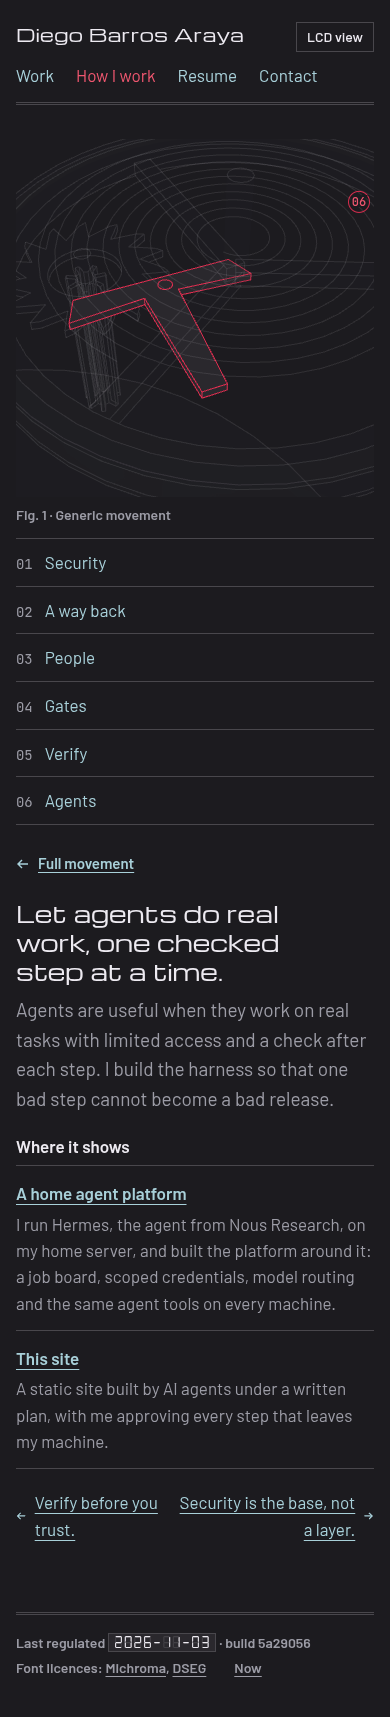
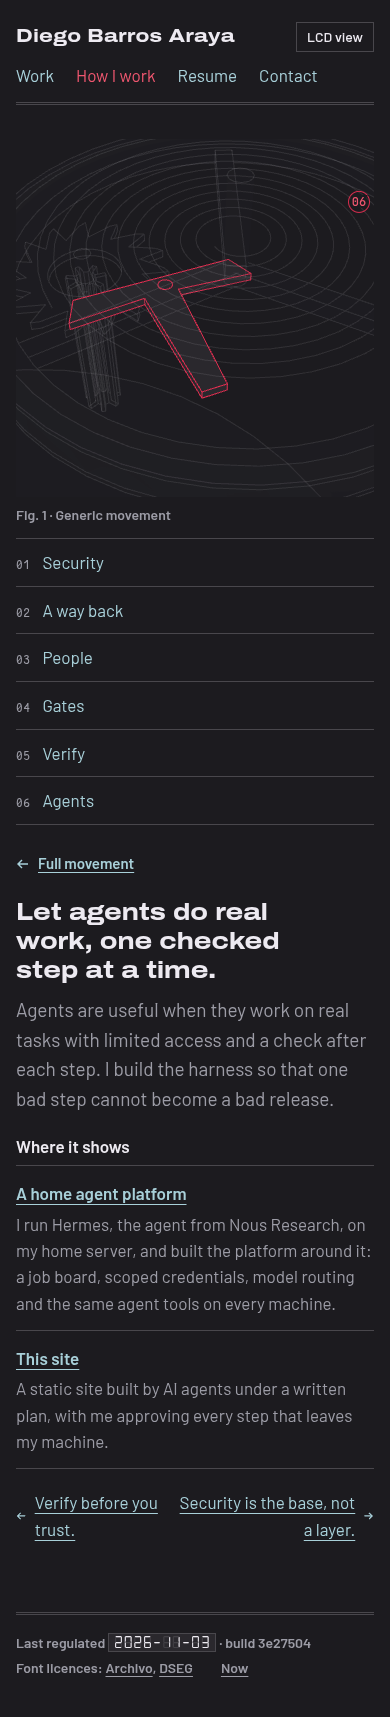
feat: Archivo Expanded for headings

diff --git a/src/styles/global.css b/src/styles/global.css
@@ -1,7 +1,7 @@
 @import '@fontsource/barlow/400.css';
 @import '@fontsource/barlow/500.css';
 @import '@fontsource/barlow/600.css';
-@import '@fontsource/michroma/400.css';
+@import '@fontsource-variable/archivo/wdth.css';
 @import '@fontsource/jetbrains-mono/400.css';
 @import '@fontsource/jetbrains-mono/500.css';
 @import './tokens.css';
@@ -50,7 +50,7 @@ section.block { padding: 30px 0 34px; border-bottom: 1px solid var(--rule); }
 /* The footer's double rule closes the page; no single rule stacked above it. */
 main > :last-child { border-bottom: 0; }
 section.block > :is(h1, h2) {
-  font: 400 17px/1.3 var(--font-head); letter-spacing: .01em;
+  font: expanded var(--head-weight) 17px/1.3 var(--font-head); letter-spacing: .01em;
   margin: 0 0 18px; display: flex; flex-wrap: wrap; gap: 8px 14px; align-items: baseline;
 }
 section.block > :is(h1, h2) .mono { color: var(--ink-2); font-weight: 400; }

diff --git a/src/styles/tokens.css b/src/styles/tokens.css
@@ -20,7 +20,8 @@
   --sel-ink: #1C1B1F;
   --ease: cubic-bezier(.16, 1, .3, 1);
   --font-body: "Barlow", system-ui, sans-serif;
-  --font-head: "Michroma", "Barlow", sans-serif;
+  --font-head: "Archivo Variable", "Barlow", sans-serif;
+  --head-weight: 750; /* Archivo Expanded: used with font-stretch: expanded (125%) */
   --font-label: var(--font-body);
   --font-mono: "JetBrains Mono", ui-monospace, monospace;
   --font-seg: "DSEG7 Classic", var(--font-mono);

diff --git a/scripts/check-dist.test.ts b/scripts/check-dist.test.ts
@@ -105,5 +105,5 @@ test('no numbered headings anywhere', () => {
   for (const f of htmlFilesUnder('dist')) assert.doesNotMatch(readFileSync(f, 'utf8'), /<h[12][^>]*>\s*(<span[^>]*>)?\s*\d+\b/, f);
 });
 test('font licences ship with the site', () => {
-  assert.ok(existsSync('dist/licenses/Michroma-OFL.txt') && existsSync('dist/licenses/DSEG-OFL.txt'));
+  assert.ok(existsSync('dist/licenses/Archivo-OFL.txt') && existsSync('dist/licenses/DSEG-OFL.txt'));
 });
